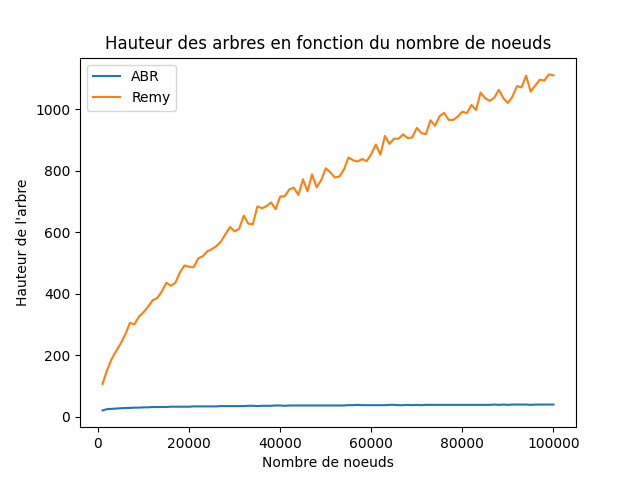
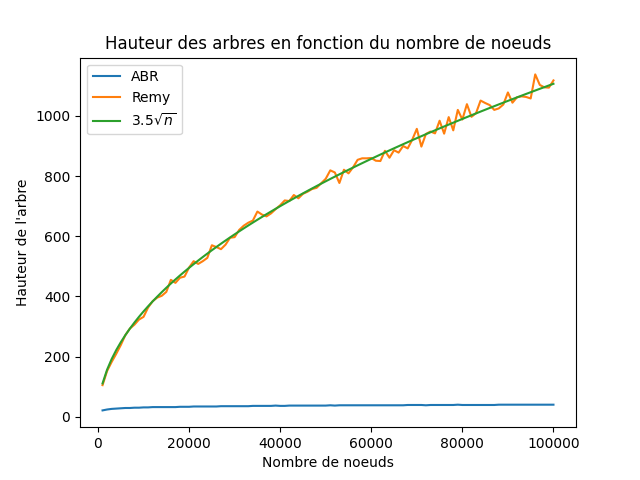
nouvelles experimentation + nouveau graphiques

diff --git a/graph.py b/graph.py
@@ -1,7 +1,19 @@
 import pandas as pd
+import numpy as np
 import matplotlib.pyplot as plt
 
 data = pd.read_csv("experimentation.csv")
+
+# intervalle des valeurs
+n_min = data["taille"].min()
+n_max = data["taille"].max()
+intervalle_n = np.linspace(n_min, n_max, 100)
+
+# calcul de la fonction f(n) = 3.5*sqrt(n)
+f = 3.5*np.sqrt(intervalle_n)
+
+# calcul de la fonction g(n) = 1.7*sqrt(n)
+g = 1.7*np.sqrt(intervalle_n)
 
 # graphique du temps en fonction de la taille
 plt.figure()
@@ -17,11 +29,21 @@ plt.savefig("./graphiques/temps_par_taille.png")
 plt.figure()
 plt.plot(data['taille'], data['hauteur_ABR'], label="ABR")
 plt.plot(data['taille'], data['hauteur_Remy'], label="Remy")
+plt.plot(intervalle_n, f, label=r"$3.5\sqrt{n}$")
 plt.xlabel("Nombre de noeuds")
 plt.ylabel("Hauteur de l'arbre")
 plt.title("Hauteur des arbres en fonction du nombre de noeuds")
 plt.legend()
 plt.savefig("./graphiques/hauteur_par_taille.png")
+
+# graphique hauteur uniquement pour ABR
+plt.figure()
+plt.plot(data['taille'], data['hauteur_ABR'], label="ABR")
+plt.xlabel("Nombre de noeuds")
+plt.ylabel("Hauteur de l'arbre")
+plt.title("Hauteur des arbres en fonction du nombre de noeuds")
+plt.legend()
+plt.savefig("./graphiques/ABR_hauteur_par_taille.png")
 
 # graphique de la taille du sous arbre gauche en fonction de le taille
 plt.figure()
@@ -33,6 +55,27 @@ plt.title("Taille des sous arbres gauche selon le nombre de noeuds")
 plt.legend()
 plt.savefig("./graphiques/ssarbreg_par_taille.png")
 
+# graphique de la taille du sous arbre gauche ABR
+plt.figure()
+plt.plot(data['taille'], data['taille_ssarbre_g_ABR'], label="ABR")
+plt.xlabel("Nombre de noeuds")
+plt.ylabel("Nombre de noeuds sous arbre gauche")
+plt.title("Taille des sous arbres gauche selon le nombre de noeuds")
+plt.legend()
+plt.axis('equal')
+plt.savefig("./graphiques/ABR_ssarbreg_par_taille.png")
+
+# graphique de la taille du sous arbre gauche Remy
+plt.figure()
+plt.plot(data['taille'], data['taille_ssarbre_g_Remy'], label="Remy")
+plt.xlabel("Nombre de noeuds")
+plt.ylabel("Nombre de noeuds sous arbre gauche")
+plt.title("Taille des sous arbres gauche selon le nombre de noeuds")
+plt.legend()
+plt.axis('equal')
+plt.savefig("./graphiques/Remy_ssarbreg_par_taille.png")
+
+
 # graphique de la largeur des arbres selon le taille
 plt.figure()
 plt.plot(data['taille'], data['largeur_ABR'], label="ABR")
@@ -42,6 +85,17 @@ plt.ylabel("Largeur de l'arbre")
 plt.title("Largeur des arbres en fonction du nombre de noeuds")
 plt.legend()
 plt.savefig("./graphiques/largeur_par_taille.png")
+
+# graphique largeur uniquement pour Remy
+plt.figure()
+plt.plot(data['taille'], data['largeur_Remy'], label="Remy")
+plt.plot(intervalle_n, g, label=r"$1.7\sqrt{n}$")
+plt.xlabel("Nombre de noeuds")
+plt.ylabel("Largeur de l'arbre")
+plt.title("Largeur des arbres en fonction du nombre de noeuds")
+plt.legend()
+plt.savefig("./graphiques/Remy_largeur_par_taille.png")
+
 
 # graphique de la profondeur moyenne des feuilles des arbres selon la taille
 plt.figure()
@@ -53,6 +107,20 @@ plt.title("Profondeur des feuilles en fonction du nombre de noeuds")
 plt.legend()
 plt.savefig("./graphiques/profondeur_par_taille.png")
 
+# graphique profondeur moyenne + hauteur Remy
+plt.figure()
+plt.plot(data['taille'], data['prof_moy_ABR'], label="profondeur moyenne ABR")
+plt.plot(data['taille'], data['hauteur_ABR'], label="hauteur ABR")
+plt.xlabel("Nombre de noeuds")
+plt.title("Comparaison profondeur des feuilles et hauteur ABR")
+plt.legend()
+plt.savefig("./graphiques/ABR_profVShauteur.png")
 
-
-
+# graphique profondeur moyenne + hauteur ABR
+plt.figure()
+plt.plot(data['taille'], data['prof_moy_Remy'], label="profondeur moyenne Remy")
+plt.plot(data['taille'], data['hauteur_Remy'], label="hauteur Remy")
+plt.xlabel("Nombre de noeuds")
+plt.title("Comparaison profondeur des feuilles et hauteur Remy")
+plt.legend()
+plt.savefig("./graphiques/Remy_profVShauteur.png")
